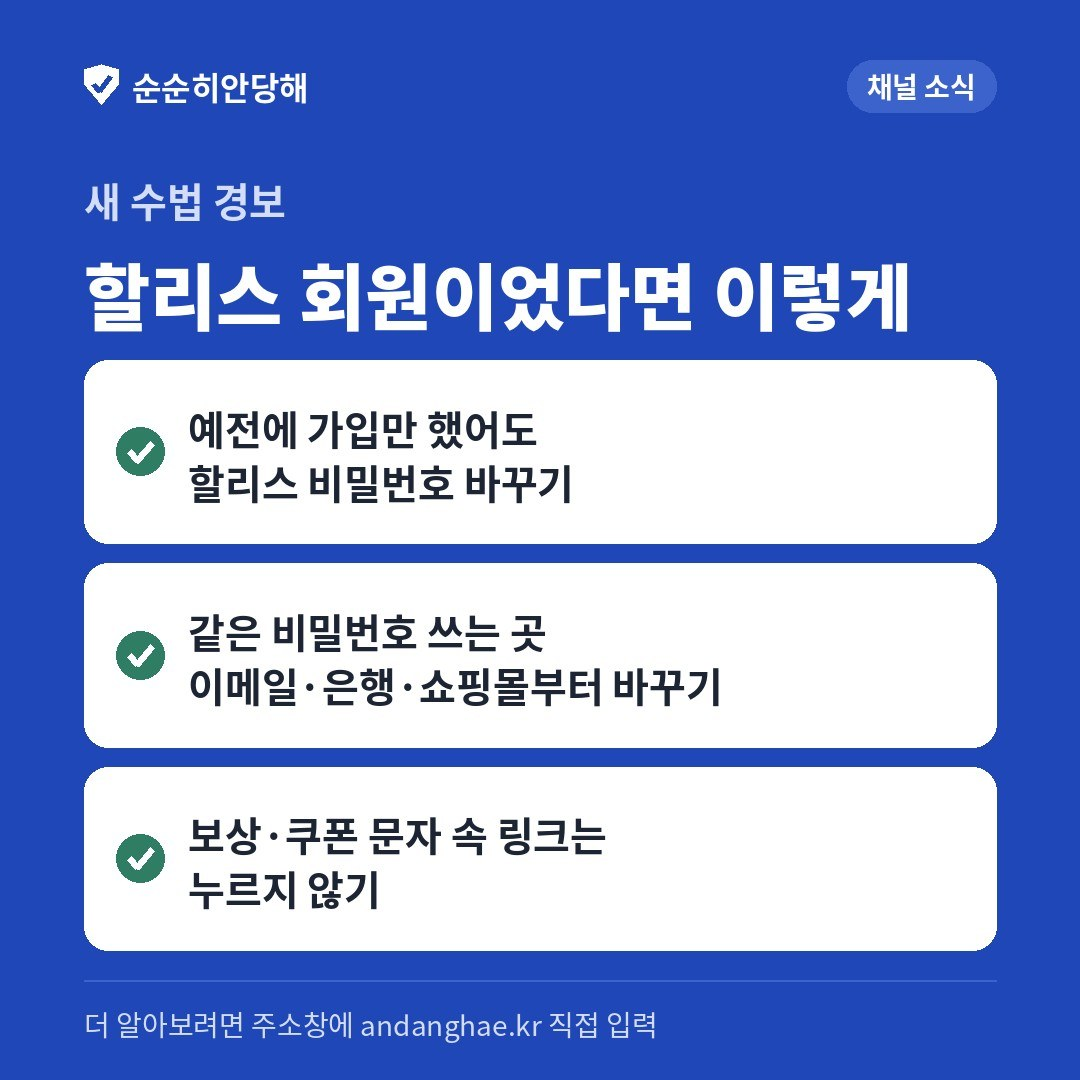
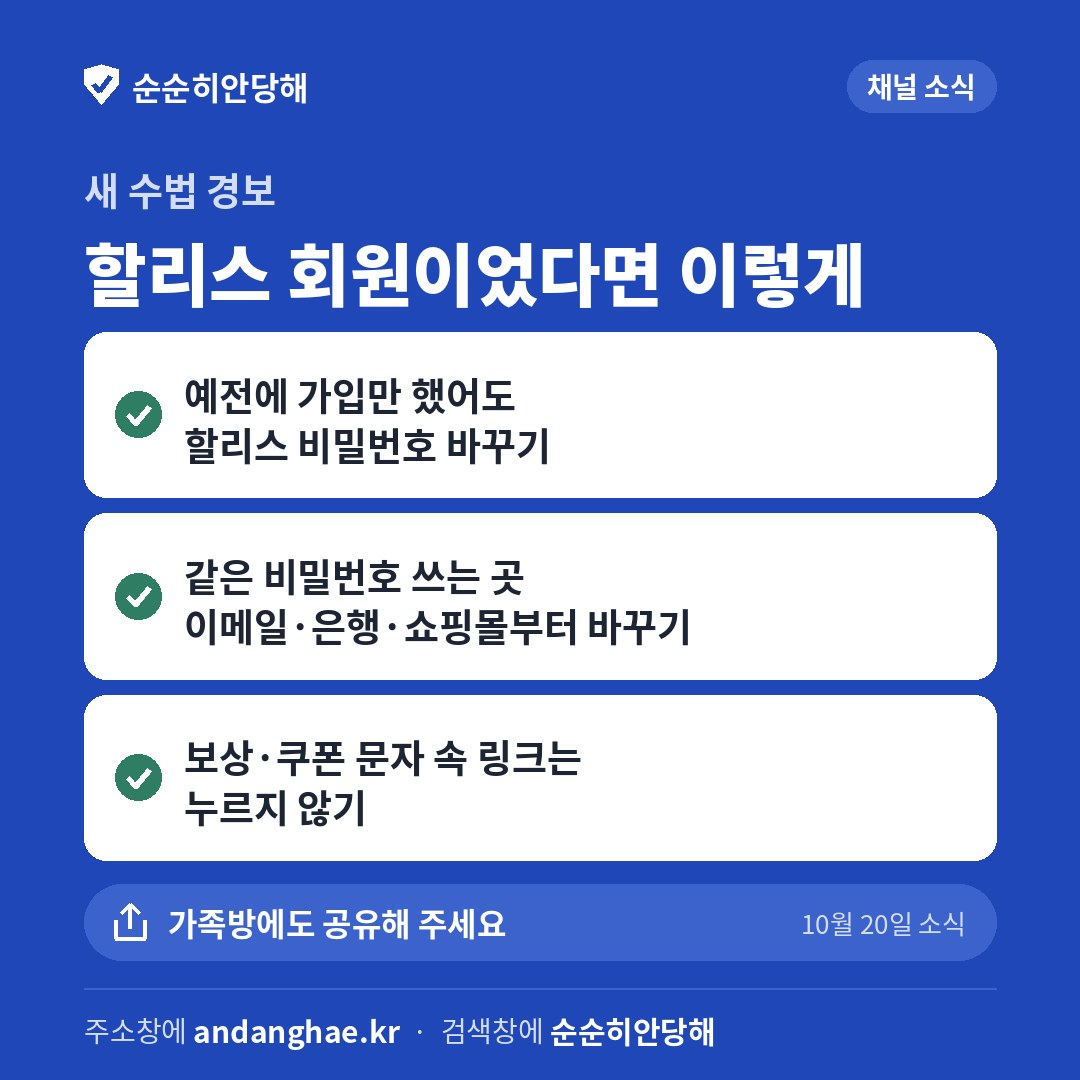
andanghae: 수법 경보 채널 소식 1장 카드로 변경(공유 미리보기 반반 잘림 방지)
Claude-Session: https://claude.ai/code/session_01NX3bhPew77XyQvSs8879SZ

Changed region(s): [[0.0611, 0.1528, 0.9472, 0.9778]]

diff --git a/andanghae/channel/adh-alert-20261020-hollys.html b/andanghae/channel/adh-alert-20261020-hollys.html
@@ -13,7 +13,7 @@ header h1{margin:4px 0 0;font-size:22px}
 main{max-width:560px;margin:0 auto;padding:16px}
 .box{background:#fff;border:1px solid var(--line);border-radius:14px;padding:14px;margin-bottom:14px}
 .steps{font-size:15px;margin:0;padding-left:20px}
-.grid{display:grid;grid-template-columns:1fr 1fr;gap:10px}
+.grid{display:grid;grid-template-columns:repeat(auto-fit,minmax(150px,1fr));gap:10px;margin-bottom:14px}
 .card img{width:100%;border-radius:10px;display:block;border:1px solid var(--line)}
 .btn{display:block;width:100%;margin-top:6px;padding:11px 0;border:0;border-radius:10px;background:var(--blue);color:#fff;font-size:15px;font-weight:700;text-align:center;text-decoration:none;cursor:pointer}
 .btn.light{background:#e8edfa;color:var(--blue)}
@@ -25,12 +25,12 @@ h2{font-size:16px;margin:0 0 8px}
 <header><small>순순히안당해 채널 카드 소식 · 10월 20일</small><h1>할리스 회원정보 유출, 같은 비밀번호 쓰는 곳부터 바꾸세요</h1></header>
 <main>
 <div class="box"><ol class="steps">
-<li>카드 2장 [저장] 누르기 (또는 맨 아래 [2장 모두 저장])</li>
+<li>카드 1장 [저장] 누르기</li>
 <li>카카오톡 채널 관리자 앱 → 소식 → 새 소식 작성</li>
-<li>사진 2장을 순서대로 넣고, 제목·문구 [복사] → 붙여 넣기</li>
+<li>사진 1장을 넣고, 제목·문구 [복사] → 붙여 넣기</li>
 <li>'링크 추가'는 쓰지 않고 게시</li></ol></div>
-<div class="grid"><div class="card"><img src="adh-alert-20261020-hollys-1.jpg" alt="카드 1"><a class="btn" href="adh-alert-20261020-hollys-1.jpg" download="adh-alert-20261020-hollys-1.jpg">1번 저장</a></div><div class="card"><img src="adh-alert-20261020-hollys-2.jpg" alt="카드 2"><a class="btn" href="adh-alert-20261020-hollys-2.jpg" download="adh-alert-20261020-hollys-2.jpg">2번 저장</a></div></div>
-<button class="btn light" style="margin:10px 0 14px" onclick="saveAll()">2장 모두 저장</button>
+<div class="grid"><div class="card"><img src="adh-alert-20261020-hollys-1.jpg" alt="카드 1"><a class="btn" href="adh-alert-20261020-hollys-1.jpg" download="adh-alert-20261020-hollys-1.jpg">1번 저장</a></div></div>
+
 <div class="box"><h2>제목</h2><div class="txt" id="t">할리스 회원정보 유출, 같은 비밀번호 쓰는 곳부터 바꾸세요</div>
 <button class="btn" onclick="cp('t',this)">제목 복사</button></div>
 <div class="box"><h2>문구</h2><div class="txt" id="b">커피 전문점 할리스의 과거 회원정보 약 276만 건이 아이디·비밀번호·주소까지 빠져나갔어요. 2009년~2020년 초 가입자 정보라 예전에 가입만 해 둔 분도 해당될 수 있어요.

diff --git a/andanghae/tools/make_channel_cards.py b/andanghae/tools/make_channel_cards.py
@@ -1,7 +1,7 @@
 """순순히안당해 카카오톡 채널 '소식' 카드 4장 (1080x1080 JPG).
 
 사용: python3 make_channel_cards.py spec.json 출력폴더
-수법 경보 단독 소식: spec에 "type": "alert" + "card"(답장 카드 형식 title/items, lead·kick 바꿈) 또는 "reply_card"(기존 jpg 경로) → 2장(요약 카드 + 링크 없음 안내)
+수법 경보 단독 소식: spec에 "type": "alert" + "card"(답장 카드 형식 title/items, lead·kick 바꿈) → 기본 1장(할 일 + 공유 안내 + 주소·검색어). "cards": 2 면 예전 2장(요약 카드 + 링크 없음 안내)
 spec.json 예시는 같은 폴더의 channel_spec_example.json.
 카드: 1 표지 / 2 이번 주 무슨 일이 / 3 이렇게 하세요 / 4 링크 없음 안내(고정)
 원칙: 주소·링크를 넣지 않는다. 하지 말 것은 끝까지 부정형으로 쓴다. 빨간 경고색은 쓰지 않는다.
@@ -175,13 +175,81 @@ def end_card(date, page=4, total=4):
     return img
 
 
+def alert_single(card, date):
+    """수법 경보 단독 소식 1장 카드. 소식을 카톡으로 공유하면 사진이 여러 장일 때 반반 잘려 보여서 1장에 다 담는다.
+    위: 머리말·제목·할 일 3칸 / 아래: 공유 안내 띠 + 주소·검색어(그림 글자라 눌리지 않음)"""
+    sys.path.insert(0, os.path.dirname(os.path.abspath(__file__)))
+    import make_reply_card as rc
+    S = 1080
+    img = Image.new("RGB", (S, S), rc.BG)
+    d = ImageDraw.Draw(img)
+    P = rc.PAD
+    rc.shield(d, P, 64, 40)
+    d.text((P + 48, 86), "순순히안당해", font=rc.f(32, "Bold"), fill=rc.ON, anchor="lm")
+    kick = card.get("kick", "채널 소식")
+    kw = d.textlength(kick, font=rc.f(28, "Bold"))
+    d.rounded_rectangle([S - P - kw - 40, 60, S - P, 112], radius=26, fill=rc.PILL)
+    d.text((S - P - kw - 20, 86), kick, font=rc.f(28, "Bold"), fill=rc.ON, anchor="lm")
+    y = 160
+    d.text((P, y), card.get("lead", "새 수법 경보"), font=rc.f(38, "Bold"), fill=rc.ON_SUB)
+    y += 62
+    tl = rc.wrap(d, card["title"], rc.f(68, "Black"), S - P * 2)
+    if len(tl) > 1:
+        print("[경고] 제목이 두 줄입니다. 한 줄로 줄이면 칸이 넉넉해요")
+    for ln in tl:
+        d.text((P, y), ln, font=rc.f(68, "Black"), fill=rc.ON)
+        y += 88
+    y += 22
+    # 아래 고정 영역: 공유 띠(76) + 구분선 + 주소·검색 한 줄
+    band_top = S - 196
+    items = card["items"]
+    gap = 16
+    bottom = band_top - 24
+    box_h = (bottom - y - gap * (len(items) - 1)) / len(items)
+    for i, it in enumerate(items):
+        top = y + i * (box_h + gap)
+        d.rounded_rectangle([P, top, S - P, top + box_h], radius=22, fill=rc.CARD)
+        rc.check(d, P + 54, top + box_h / 2, 23)
+        tx = P + 100
+        lines = [l for part in it.split("\n") for l in rc.wrap(d, part, rc.f(38, "Bold"), S - P - 30 - tx)]
+        ty = top + (box_h - len(lines) * 50) / 2
+        for ln in lines:
+            d.text((tx, ty), ln, font=rc.f(38, "Bold"), fill=rc.INK)
+            ty += 50
+        if ty > top + box_h + 4:
+            print(f"[경고] {i+1}번 칸이 넘칩니다")
+    # 공유 안내 띠 (버튼 위치는 문구에서 안내, 그림에는 적지 않음)
+    d.rounded_rectangle([P, band_top, S - P, band_top + 76], radius=38, fill=rc.PILL)
+    sx, sy = P + 46, band_top + 38
+    d.line([(sx - 15, sy - 2), (sx - 15, sy + 16), (sx + 15, sy + 16), (sx + 15, sy - 2)], fill=rc.ON, width=4, joint="curve")
+    d.line([(sx, sy + 6), (sx, sy - 18)], fill=rc.ON, width=4)
+    d.line([(sx - 9, sy - 9), (sx, sy - 18), (sx + 9, sy - 9)], fill=rc.ON, width=4, joint="curve")
+    d.text((P + 84, sy), "가족방에도 공유해 주세요", font=rc.f(32, "Bold"), fill=rc.ON, anchor="lm")
+    d.text((S - P - 30, sy), f"{date} 소식", font=rc.f(26), fill=rc.ON_SUB, anchor="rm")
+    d.line([(P, S - 92), (S - P, S - 92)], fill=rc.PILL, width=2)
+    fy = S - 50
+    d.text((P, fy), "주소창에", font=rc.f(28), fill=rc.ON_SUB, anchor="lm")
+    x = P + d.textlength("주소창에 ", font=rc.f(28))
+    d.text((x, fy), "andanghae.kr", font=rc.f(30, "Bold"), fill=rc.ON, anchor="lm")
+    x += d.textlength("andanghae.kr", font=rc.f(30, "Bold"))
+    d.text((x, fy), "  ·  검색창에 ", font=rc.f(28), fill=rc.ON_SUB, anchor="lm")
+    x += d.textlength("  ·  검색창에 ", font=rc.f(28))
+    d.text((x, fy), "순순히안당해", font=rc.f(30, "Bold"), fill=rc.ON, anchor="lm")
+    return img
+
+
 def main(spec_path, out_dir):
     s = json.load(open(spec_path, encoding="utf-8"))
     os.makedirs(out_dir, exist_ok=True)
     date = s["date"]
     prefix = s.get("prefix", "adh-channel")
     if s.get("type") == "alert":
-        # 수법 경보 단독 소식: 1번 = 이미 만든 가족방 답장 카드, 2번 = 링크 없음 안내
+        # 수법 경보 단독 소식: 기본 1장(공유 미리보기에서 반반 잘리지 않게). "cards": 2 면 예전 2장 방식
+        if "card" in s and s.get("cards", 1) == 1:
+            p = os.path.join(out_dir, f"{prefix}-1.jpg")
+            alert_single(s["card"], date).save(p, "JPEG", quality=88, optimize=True)
+            print(p, os.path.getsize(p) // 1024, "KB")
+            return
         if "card" in s:   # 답장 카드 틀로 채널용 1번 카드를 새로 그림(머리말·꼬리표만 채널용)
             import tempfile
             sys.path.insert(0, os.path.dirname(os.path.abspath(__file__)))

diff --git a/andanghae/tools/make_channel_page.py b/andanghae/tools/make_channel_page.py
@@ -26,7 +26,7 @@ header h1{{margin:4px 0 0;font-size:22px}}
 main{{max-width:560px;margin:0 auto;padding:16px}}
 .box{{background:#fff;border:1px solid var(--line);border-radius:14px;padding:14px;margin-bottom:14px}}
 .steps{{font-size:15px;margin:0;padding-left:20px}}
-.grid{{display:grid;grid-template-columns:1fr 1fr;gap:10px}}
+.grid{{display:grid;grid-template-columns:repeat(auto-fit,minmax(150px,1fr));gap:10px;margin-bottom:14px}}
 .card img{{width:100%;border-radius:10px;display:block;border:1px solid var(--line)}}
 .btn{{display:block;width:100%;margin-top:6px;padding:11px 0;border:0;border-radius:10px;background:var(--blue);color:#fff;font-size:15px;font-weight:700;text-align:center;text-decoration:none;cursor:pointer}}
 .btn.light{{background:#e8edfa;color:var(--blue)}}
@@ -38,12 +38,12 @@ h2{{font-size:16px;margin:0 0 8px}}
 <header><small>순순히안당해 채널 카드 소식 · {date}</small><h1>{title}</h1></header>
 <main>
 <div class="box"><ol class="steps">
-<li>카드 {n}장 [저장] 누르기 (또는 맨 아래 [{n}장 모두 저장])</li>
+<li>카드 {n}장 [저장] 누르기{all_hint}</li>
 <li>카카오톡 채널 관리자 앱 → 소식 → 새 소식 작성</li>
-<li>사진 {n}장을 순서대로 넣고, 제목·문구 [복사] → 붙여 넣기</li>
+<li>사진 {n}장을 넣고, 제목·문구 [복사] → 붙여 넣기</li>
 <li>'링크 추가'는 쓰지 않고 게시</li></ol></div>
 <div class="grid">{cards}</div>
-<button class="btn light" style="margin:10px 0 14px" onclick="saveAll()">{n}장 모두 저장</button>
+{save_all}
 <div class="box"><h2>제목</h2><div class="txt" id="t">{title}</div>
 <button class="btn" onclick="cp('t',this)">제목 복사</button></div>
 <div class="box"><h2>문구</h2><div class="txt" id="b">{body}</div>
@@ -64,7 +64,7 @@ CARD = '<div class="card"><img src="{f}" alt="카드 {i}"><a class="btn" href="{
 def main(spec_path, out_dir):
     s = json.load(open(spec_path, encoding="utf-8"))
     p = s["prefix"]
-    n = 2 if s.get("type") == "alert" else 4
+    n = s.get("cards", 1) if s.get("type") == "alert" else 4
     cards = "".join(CARD.format(f=f"{p}-{i}.jpg", i=i) for i in range(1, n + 1))
     for i in range(1, n + 1):
         if not os.path.exists(os.path.join(out_dir, f"{p}-{i}.jpg")):
@@ -73,7 +73,9 @@ def main(spec_path, out_dir):
     if "http" in body or "andanghae.kr" in body:
         sys.exit("문구에 주소가 들어 있습니다")
     page = TPL.format(date=html.escape(s["date"]), title=html.escape(s["post"]["title"]),
-                      body=html.escape(body), cards=cards, n=n)
+                      body=html.escape(body), cards=cards, n=n,
+                      all_hint=f" (또는 맨 아래 [{n}장 모두 저장])" if n > 1 else "",
+                      save_all=f'<button class="btn light" style="margin:-4px 0 14px" onclick="saveAll()">{n}장 모두 저장</button>' if n > 1 else "")
     out = os.path.join(out_dir, f"{p}.html")
     open(out, "w", encoding="utf-8").write(page)
     print(out)
